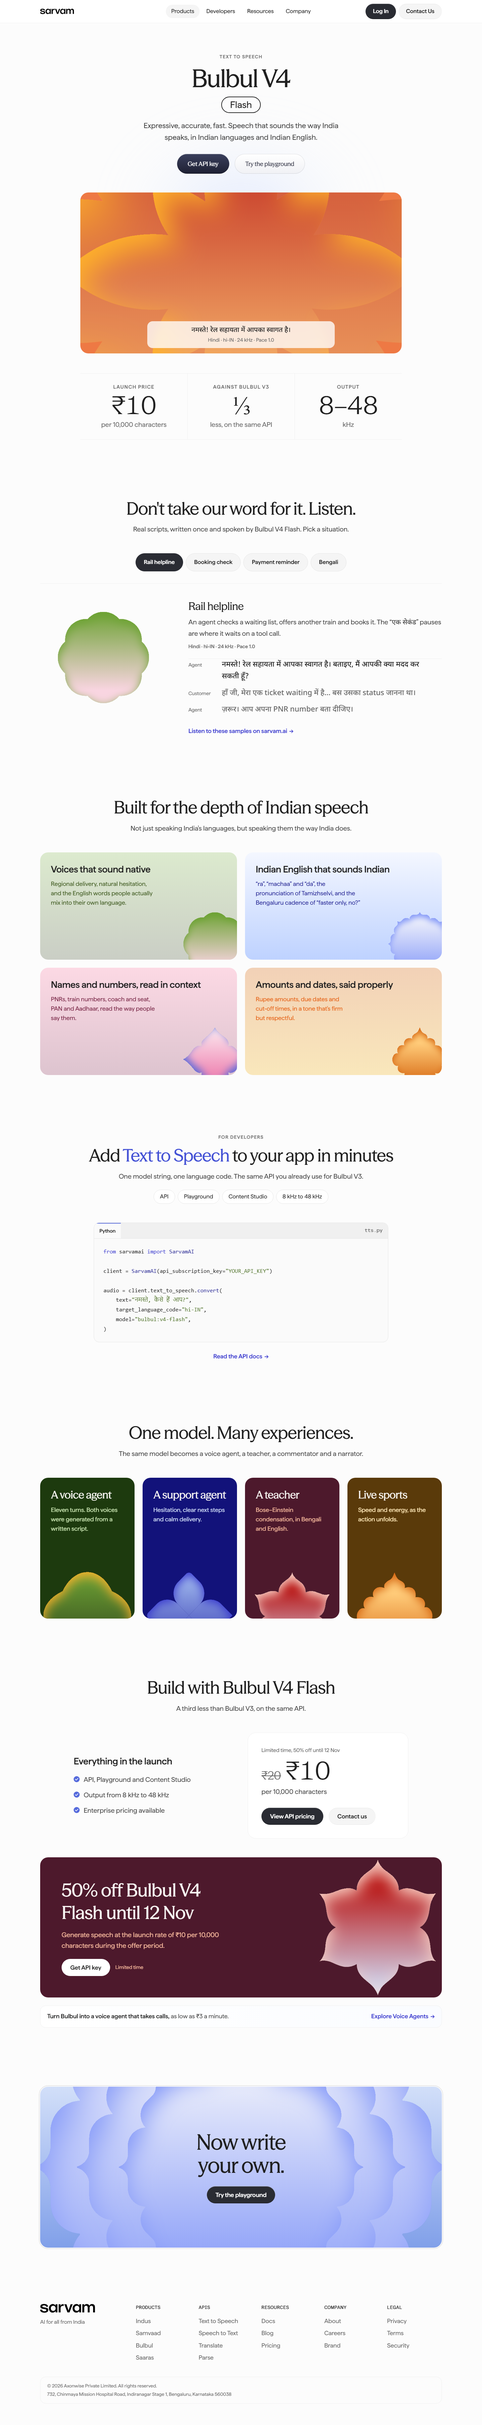
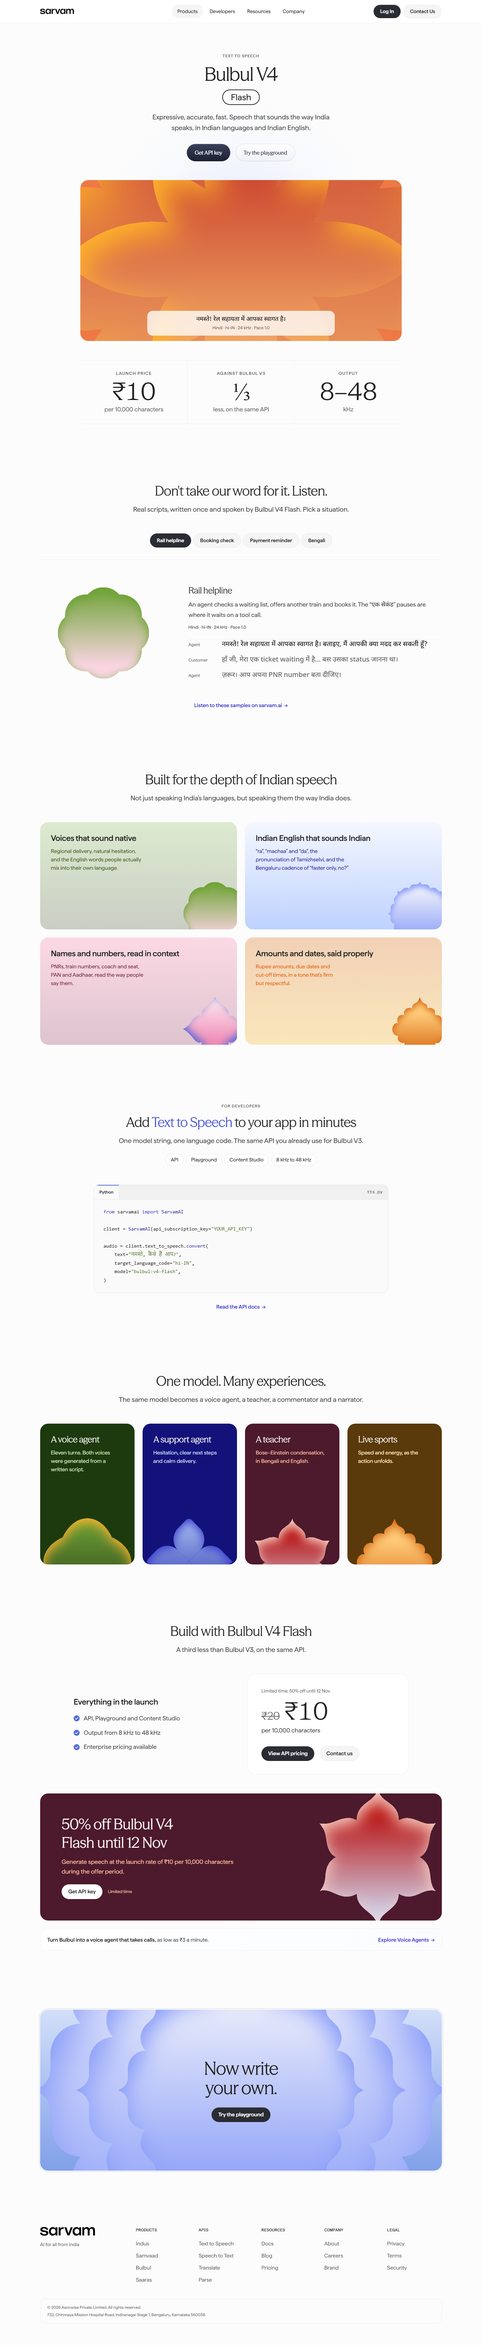
Restore Bulbul page type and button sizes to sarvam.ai's measured values
Season Mix headings back to regular weight and the measured heading sizes; the laptop +2px text step removed; button, tab and chip padding back to the measured sizes. Docs and screenshots updated.

diff --git a/skills/landing-page/page-base.css b/skills/landing-page/page-base.css
@@ -64,13 +64,13 @@ ul[role="list"], ol[role="list"] { list-style: none; padding: 0; }
 /* ---------- Type ---------- */
 .h1, .h2, .display {
   font-family: var(--font-season-mix);
-  font-weight: var(--fw-medium);   /* headings are medium (525): approved; bold and semibold read too heavy */
+  font-weight: var(--fw-regular);  /* Season Mix headings are regular (425), as on sarvam.ai */
   text-wrap: balance;
 }
 .h1 { font-size: var(--text-h1); line-height: var(--lh-h1); letter-spacing: var(--ls-h1); }
 .h1.product { font-size: var(--text-h1-product); }
 .h2 { font-size: var(--text-h2); line-height: var(--lh-h2); letter-spacing: var(--ls-h2); }
-.h3 { font-family: var(--font-season-mix); font-weight: var(--fw-medium); font-size: var(--text-h3); line-height: 1.2; letter-spacing: -0.015em; }
+.h3 { font-family: var(--font-season-mix); font-weight: var(--fw-regular); font-size: var(--text-h3); line-height: 1.2; letter-spacing: -0.015em; }
 .subhead { font-size: var(--text-subhead); line-height: var(--lh-subhead); color: var(--color-tx-secondary); text-wrap: pretty; }
 /* Subtext colours follow sarvam.ai: prominent subtext (hero line, section intros, demo copy)
    is tx-secondary #3D3D3D; tx-tertiary #666 is only for card descriptions, captions and meta. */
@@ -136,9 +136,9 @@ ul[role="list"], ol[role="list"] { list-style: none; padding: 0; }
 .btn {
   position: relative; isolation: isolate; overflow: hidden;
   display: inline-flex; align-items: center; justify-content: center; gap: 8px;
-  /* Sizes (components.md): content 48px / 16px, hero 56px (.btn-lg),
-     header 44px / 15px (.site-header .btn). */
-  min-height: 48px; padding: 12px 26px; border-radius: var(--radius-full);
+  /* Sizes measured on sarvam.ai (components.md): content 44px / 16px, hero 52px (.btn-lg),
+     header 40px / 15px (.site-header .btn). */
+  min-height: 44px; padding: 10px 20px; border-radius: var(--radius-full);
   font-family: var(--font-matter); font-weight: var(--fw-medium); font-size: 16px; line-height: 1.5;
   white-space: nowrap; text-align: center;
   transition: transform var(--duration-fast) var(--ease-brand), box-shadow var(--duration-button) var(--ease-brand);
@@ -160,7 +160,7 @@ ul[role="list"], ol[role="list"] { list-style: none; padding: 0; }
 .btn-white:hover::after { opacity: .05; }
 
 .btn-lg {
-  min-height: 56px; padding: 16px 32px;
+  min-height: 52px; padding: 14px 24px;
   font-family: var(--font-season-mix); font-size: 16px;
 }
 .btn-lg.btn-primary   { background: var(--gradient-btn-primary); color: #fff; box-shadow: var(--shadow-button-dark); }
@@ -195,7 +195,7 @@ ul[role="list"], ol[role="list"] { list-style: none; padding: 0; }
 .site-header .brand img { height: 16px; width: auto; }
 .site-nav { display: none; }
 .site-header .actions { margin-left: auto; display: flex; align-items: center; gap: 8px; }
-.site-header .btn { min-height: 44px; padding: 10px 22px; font-size: 15px; }
+.site-header .btn { min-height: 40px; padding: 8px 20px; font-size: 15px; }
 .site-header .actions .btn-light { display: none; }
 .menu-toggle {
   display: grid; place-items: center; width: var(--touch-min); height: var(--touch-min);
@@ -329,7 +329,7 @@ body.menu-open .site-header .actions .btn-dark { background: var(--color-sf-seco
   min-height: 380px; display: flex; flex-direction: column; gap: 12px;
   background: var(--ground, var(--ground-indigo)); color: var(--color-tx-inverse);
 }
-.card-dark .title { font-family: var(--font-season-mix); font-weight: var(--fw-medium); font-size: var(--text-h3); line-height: 1.2; letter-spacing: -0.015em; }
+.card-dark .title { font-family: var(--font-season-mix); font-weight: var(--fw-regular); font-size: var(--text-h3); line-height: 1.2; letter-spacing: -0.015em; }
 .card-dark .body-sm { color: var(--accent, var(--on-indigo-accent)); }
 
 /* ---------- Motifs (imagery.md) ----------
@@ -356,7 +356,7 @@ body.menu-open .site-header .actions .btn-dark { background: var(--color-sf-seco
 
 /* ---------- Tags, chips, badges (components.md) ---------- */
 .tag {
-  display: inline-flex; align-items: center; gap: 6px; padding: 8px 14px; border-radius: var(--radius-xl);
+  display: inline-flex; align-items: center; gap: 6px; padding: 6px 12px; border-radius: var(--radius-xl);
   font-size: 14px; line-height: 1.4; font-weight: var(--fw-semibold);
   background: var(--sr-indigo-50); border: 1px solid var(--sr-indigo-200); color: var(--sr-indigo-600);
 }
@@ -364,16 +364,16 @@ body.menu-open .site-header .actions .btn-dark { background: var(--color-sf-seco
 .tag.orange { background: var(--sr-orange-50); border-color: var(--sr-orange-200); color: var(--sr-orange-600); }
 .tag.pink   { background: var(--sr-pink-50);   border-color: var(--sr-pink-200);   color: var(--sr-pink-600); }
 .chip {
-  display: inline-flex; align-items: center; padding: 8px 18px; border-radius: var(--radius-full);
+  display: inline-flex; align-items: center; padding: 6px 14px; border-radius: var(--radius-full);
   background: #fff; border: 1px solid var(--color-st); font-size: 15px; line-height: 1.4;
 }
 .chips { display: flex; flex-wrap: wrap; gap: 8px; }
 
 /* Pill tabs: scroll on mobile, wrap from md */
-.tabs { display: flex; gap: 8px; overflow-x: auto; scrollbar-width: none; padding: 4px; margin: -4px; }
+.tabs { display: flex; gap: 6px; overflow-x: auto; scrollbar-width: none; padding: 4px; margin: -4px; }
 .tabs::-webkit-scrollbar { display: none; }
 .tab {
-  flex: none; min-height: 48px; padding: 12px 24px; border-radius: var(--radius-full);
+  flex: none; min-height: 40px; padding: 8px 20px; border-radius: var(--radius-full);
   background: var(--color-sf-secondary); color: var(--color-tx); font-size: 15px; font-weight: var(--fw-medium);
   border: 1px solid var(--color-st);                 /* subtle grey outline */
   transition: background var(--duration-normal) var(--ease-brand), color var(--duration-normal), border-color var(--duration-normal);
@@ -491,18 +491,6 @@ body.menu-open .site-header .actions .btn-dark { background: var(--color-sf-seco
   .js .reveal.in { opacity: 1; translate: 0 0; }
 }
 
-/* ---------- Laptop and up: component text +2px (approved Nov 2026) ---------- */
-@media (min-width: 1024px) {
-  .btn, .btn-lg { font-size: 18px; }
-  .site-header .btn { font-size: 17px; }
-  .site-nav a { font-size: 17px; }
-  .tag { font-size: 16px; }
-  .chip, .tab { font-size: 17px; }
-  .site-footer h2 { font-size: 14px; line-height: 20px; }
-  .site-footer .legal { font-size: 14px; }
-  .version { font-size: 28px; }
-  .band .display { font-weight: var(--fw-medium); }
-}
 /* Small laptops (1024–1279): with laptop-size type the centred nav collides with the
    buttons, so the nav flows beside them instead. Centred again from 1280. */
 @media (min-width: 1024px) and (max-width: 1279.98px) {
@@ -580,7 +568,6 @@ body.menu-open .site-header .actions .btn-dark { background: var(--color-sf-seco
 .code pre { margin: 0; padding: 20px; overflow-x: auto; font: 400 14px / 1.7 var(--font-matter-mono), var(--font-indic); color: var(--code-fg); }
 .code .k { color: var(--code-keyword); } .code .f { color: var(--code-function); } .code .s { color: var(--code-string); }
 @media (min-width: 768px) { .code pre { font-size: 15px; padding: 24px 28px; } }
-@media (min-width: 1024px) { .code pre { font-size: 17px; } }
 
 /* Inline promo strip */
 .strip {
@@ -598,19 +585,17 @@ body.menu-open .site-header .actions .btn-dark { background: var(--color-sf-seco
 .cta .band-cta { min-height: 0; aspect-ratio: 16 / 10; padding: 20px; }
 .cta .motif-stack { --stack-w: 96%; --stack-step: 30%; }
 .cta-copy { position: relative; z-index: 1; display: grid; justify-items: center; gap: 14px; }
-.cta-copy .display { color: var(--cta-ink, var(--color-tx)); font-family: var(--font-season-mix); font-weight: var(--fw-medium); font-size: clamp(26px, 6vw + 4px, 34px); line-height: 1.08; letter-spacing: -0.025em; }
+.cta-copy .display { color: var(--cta-ink, var(--color-tx)); font-family: var(--font-season-mix); font-weight: var(--fw-regular); font-size: clamp(26px, 6vw + 4px, 34px); line-height: 1.08; letter-spacing: -0.025em; }
 .cta-copy .btn { min-height: 40px; padding: 8px 18px; font-size: 15px; }
 @media (min-width: 768px) {
   .cta .band-cta { aspect-ratio: auto; min-height: 440px; padding: var(--band-pad); }
   .cta-copy { gap: 28px; }
-  .cta-copy .display { font-size: clamp(42px, 2vw + 34.5px, 58px); }
-  .cta-copy .btn { min-height: 48px; padding: 12px 26px; font-size: 16px; }
+  .cta-copy .display { font-size: clamp(36px, 2vw + 28.5px, 54px); }
+  .cta-copy .btn { min-height: 44px; padding: 10px 20px; font-size: 16px; }
 }
 @media (min-width: 1024px) {
   .cta .band-cta { min-height: 480px; }
   .cta .motif-stack { --stack-w: 86%; --stack-step: 28%; }
-  .cta-copy .display { font-size: clamp(56px, 1.25vw + 46px, 64px); }
-  .cta-copy .btn { font-size: 18px; }
 }
 @media (min-width: 1280px) { .cta .motif-stack { --stack-w: 76%; --stack-step: 26%; } }
 

diff --git a/design-system/tokens.css b/design-system/tokens.css
@@ -70,12 +70,12 @@ html { font-variation-settings: "SERF" 50; }
 
   /* ---------- Font weights (variable axes; the site uses the +25 values) ---------- */
   --fw-light: 325;
-  --fw-regular: 425;    /* banner headlines, body, metrics */
+  --fw-regular: 425;    /* all Season Mix headings, body, metrics */
   /* Matter running text. The trial Matter file renders ~2% heavier than Sarvam's licensed
      file at the same value (measured by ink coverage, Nov 2026): 415 on the trial file matches
      425 on the licensed one. Set this back to 425 when the licensed files are installed. */
   --fw-text: 415;
-  --fw-medium: 525;     /* all page headings, labels, buttons */
+  --fw-medium: 525;     /* Matter labels, card titles, buttons */
   --fw-semibold: 625;   /* tags, blog-cover titles */
 
   /* ---------- Surfaces ---------- */
@@ -260,11 +260,11 @@ html { font-variation-settings: "SERF" 50; }
   /* Type (typography.md §3), measured on sarvam.ai at 375 and 1440px. Laptop scale approved in review. */
   --text-h1: clamp(44px, 2.21vw + 35.7px, 64px);
   --lh-h1: 1.05;  --ls-h1: -0.025em;
-  --text-h1-product: clamp(52px, 1.33vw + 47px, 64px);   /* approved on the Bulbul page: 52 → 64, 76 at lg */
-  --text-h2: clamp(34px, 1.33vw + 29px, 46px);      /* section headings: 34 → 46, 52 at lg (approved) */
+  --text-h1-product: clamp(44px, 1.33vw + 39px, 56px);   /* product page name: 44 → 56 (sarvam.ai) */
+  --text-h2: clamp(28px, 1.33vw + 23px, 40px);      /* section headings: 28 → 40 (sarvam.ai) */
   --lh-h2: 1.15;  --ls-h2: -0.02em;
-  --text-h3: 28px;                                   /* in-section titles, dark-card titles: 28, 32 at lg */
-  --text-band: clamp(36px, 1.33vw + 31px, 48px);
+  --text-h3: 26px;                                   /* in-section titles, dark-card titles (sarvam.ai: 26) */
+  --text-band: clamp(32px, 1.33vw + 27px, 44px);
   --text-metric: clamp(56px, 1.77vw + 49.4px, 72px);
   --text-subhead: 18px;  --lh-subhead: 1.6;
   --text-lead: 17px;     --lh-lead: 1.6;
@@ -272,7 +272,7 @@ html { font-variation-settings: "SERF" 50; }
   --text-body-sm: 15px;  --lh-body-sm: 1.55;
   --text-ui: 16px;                                   /* tabs, chips, list rows, footer links, text links */
   --text-eyebrow: 14px;
-  --text-card-title: 22px; --lh-card-title: 1.3; --ls-card-title: -0.015em;
+  --text-card-title: 20px; --lh-card-title: 1.3; --ls-card-title: -0.015em;
   --text-value: 20px;
   --text-quote: 20px;
   --text-overline: 12px; --ls-overline: 0.1em;
@@ -310,26 +310,12 @@ html { font-variation-settings: "SERF" 50; }
     --section-head-gap: 56px;
     --card-pad: 32px;
     --band-pad: 64px;
-    /* Laptop and up (approved Nov 2026): headings larger, all other text +2px over the
-       sarvam.ai-measured sizes. */
-    --text-h1: calc(clamp(44px, 2.21vw + 35.7px, 64px) + 2px);
-    --text-h1-product: clamp(68px, 1.17vw + 57px, 76px);
-    --text-h2: clamp(46px, .94vw + 38.5px, 52px);
-    --text-h3: 32px;
-    --text-band: clamp(48px, .94vw + 40.5px, 54px);
-    --text-metric: calc(clamp(56px, 1.77vw + 49.4px, 72px) + 2px);
-    --text-card-title: 28px;
-    --text-value: 24px;
-    --text-subhead: 22px;
+    /* Laptop (sarvam.ai): leads and body step up; headings keep growing via their clamps */
     --text-lead: 20px;
-    --text-body: 20px;
-    --text-body-sm: 18px;
-    --text-ui: 18px;
-    --text-eyebrow: 18px;
-    --text-quote: 26px;
-    --text-overline: 14px;
-    --text-meta: 16px;
-    --text-label: 15px;
+    --text-body: 18px;
+    --text-card-title: 24px;
+    --text-value: 22px;
+    --text-quote: 24px;
   }
 }
 

diff --git a/styles.css b/styles.css
@@ -180,17 +180,13 @@
 @media (min-width: 1024px) { .cta .motif-stack { --stack-w: 86%; --stack-step: 28%; } }   /* band ~1.8:1 */
 @media (min-width: 1280px) { .cta .motif-stack { --stack-w: 76%; --stack-step: 26%; } }   /* band 2.2:1 and wider */
 .cta-copy { position: relative; z-index: 1; display: grid; justify-items: center; gap: 28px; }
-/* Season Mix, large (by request). Dark text: model-02 is a light motif (white to periwinkle) */
-.cta-copy .display { color: var(--color-tx); font-family: var(--font-season-mix); font-weight: var(--fw-semibold); font-size: clamp(42px, 2vw + 34.5px, 58px); line-height: 1.08; letter-spacing: -0.025em; }
+/* Season Mix. Dark text: model-02 is a light motif (white to periwinkle) */
+.cta-copy .display { color: var(--color-tx); font-family: var(--font-season-mix); font-weight: var(--fw-regular); font-size: clamp(36px, 2vw + 28.5px, 54px); line-height: 1.08; letter-spacing: -0.025em; }
 @media (min-width: 1024px) { .cta .band-cta { min-height: 480px; } }
 
 /* Laptop and up: page-specific sizes (the system tokens carry the approved type scale) */
 @media (min-width: 1024px) {
   /* hard-coded sizes on this page */
-  .transcript li { font-size: 22px; }
-  .code pre { font-size: 17px; }
-  .price .was { font-size: 34px; }                    /* number: +2 */
-  .cta-copy .display { font-size: clamp(56px, 1.25vw + 46px, 64px); }
   /* give the larger text room */
   .hero-copy .subhead { max-width: 46ch; }
   .cap-grid .card-pastel > :not(img) { max-width: 28ch; }
@@ -211,8 +207,8 @@
   .hero-art-caption { left: 50%; right: auto; translate: -50% 0; width: min(560px, calc(100% - 32px)); text-align: center; }
 }
 
-/* Page-specific headings use the system heading weight (medium) */
-.demo-title, .cta-copy .display { font-weight: var(--fw-medium); }
+/* Page-specific headings use the system heading weight (regular) */
+.demo-title, .cta-copy .display { font-weight: var(--fw-regular); }
 
 /* Closing band on phones: keep the desktop's wide layered composition, scaled down
    (reference: sarvam.ai brand page on mobile). Landscape 16:10, width-based layering. */

diff --git a/design-system/components.md b/design-system/components.md
@@ -7,16 +7,16 @@ Always pills (`--radius-full`). Labels are short verbs in sentence case: *Sign u
 
 | Variant | Spec | Use |
 |---|---|---|
-| Primary, large | Season Mix 525 16px · 56px tall · padding 16px 32px · `--gradient-btn-primary` · white | Hero and section CTAs |
+| Primary, large | Season Mix 525 16px · 52px tall · padding 14px 24px · `--gradient-btn-primary` · white | Hero and section CTAs |
 | Secondary, large | Same size · `--gradient-btn-secondary` · text `#1E2033` · inset 1px ring at 14% | Hero pair |
-| Primary, content | Matter 525 16px · 48px · padding 12px 26px · `--color-sr-slate` · white · `--shadow-button-dark` | Inline CTAs, "Get API key" |
+| Primary, content | Matter 525 16px · 44px · padding 10px 20px · `--color-sr-slate` · white · `--shadow-button-dark` | Inline CTAs, "Get API key" |
 | Secondary, content | Same size · `--color-sf-secondary` · `--color-tx` · `--shadow-button-light` | "View All Updates" |
-| Header | 44px, 15px, padding 10px 22px | *Log In* (dark), *Contact Us* (light) |
+| Header | 40px, 15px, padding 8px 20px | *Log In* (dark), *Contact Us* (light) |
 | On dark ground | Secondary, white background | Promo and CTA bands |
 | Text link | Matter 425, `--sr-indigo-800`, "→" | "Explore Voice Agents →" |
 | Play | 56–92px white circle, slate triangle, `--shadow-elevation-md` | On orbs and video |
 
-Padding is enlarged from sarvam.ai (system). States: hover a white 8% overlay over 200ms; press `scale(.97)`; focus 2px `--sr-indigo-600` outline, offset 2px; disabled opacity .4. Below 1024px, card button pairs stack full width.
+Sizes measured on sarvam.ai. States: hover a white 8% overlay over 200ms; press `scale(.97)`; focus 2px `--sr-indigo-600` outline, offset 2px; disabled opacity .4. Below 1024px, card button pairs stack full width.
 
 ## 2. Header
 Fixed, white, 1px `--color-st-secondary` hairline, ≈68px tall, container 10/12 (88% mobile), max 1400px. Wordmark 16px tall left (a white version crossfades in over dark sections, 300ms); nav centre (Products · Developers · Resources · Company; Matter 425 15px, pill hit areas 40px, chevrons); *Log In* then *Contact Us* right.
@@ -31,9 +31,9 @@ Centred, top to bottom: ornament (24 → 32px) · eyebrow between 1px `--gradien
 - **Composer:** outer panel (`--radius-3xl`, 1px `--color-st`, padding 12 → 16px) around an inner field (`--radius-2xl`, 16 → 18px); context chips (`--color-sf`, `--radius-lg`, 12px).
 
 ## 5. Tabs, tags, chips
-- **Tab chips:** 48px, padding 12px 24px, Matter 525 15px, 1px `--color-st` border (dark when selected). Dark-active variant: inactive `--color-sf-secondary`, active `--color-sr-slate` + white. Segmented: pills in a bordered track. Product tab rail: active white with `--sr-indigo-800` text. Code tabs: 12px 525, active with a 2px `--sr-indigo-600` top border. Tab rows scroll sideways on mobile.
-- **Tags:** Matter 625 14px, padding 8px 14px, `--radius-xl`, background `*-50`, border `*-200`, text `*-600` ("SOC 2 Type I", "DPDP compliant").
-- **Spec chips:** white, 1px `--color-st`, pill, Matter 425 13–14px ("WAV", "Python SDK").
+- **Tab chips:** 40px, padding 8px 20px, Matter 525 15px, 1px `--color-st` border (dark when selected). Dark-active variant: inactive `--color-sf-secondary`, active `--color-sr-slate` + white. Segmented: pills in a bordered track. Product tab rail: active white with `--sr-indigo-800` text. Code tabs: 12px 525, active with a 2px `--sr-indigo-600` top border. Tab rows scroll sideways on mobile.
+- **Tags:** Matter 625 14px, padding 6px 12px, `--radius-xl`, background `*-50`, border `*-200`, text `*-600` ("SOC 2 Type I", "DPDP compliant").
+- **Spec chips:** white, 1px `--color-st`, pill, padding 6px 14px, Matter 425 13–14px ("WAV", "Python SDK").
 
 ## 6. Cards
 | Type | Spec |
@@ -63,7 +63,7 @@ Centred, top to bottom: ornament (24 → 32px) · eyebrow between 1px `--gradien
 |---|---|
 | Promo | Deep ground of the colour world, `--radius-3xl`, padding 40px, min-height 256px; Season Mix 32 → 36px white headline, accent line, white pill + 12px meta; a motif bleeding off the right (rising from the bottom on mobile) |
 | Use-case | Deep ground, H2 white + accent lead, hairline, two columns of title, accent line and 4 items; a motif cropped top-right |
-| **CTA** | A layered motif (`.cta .band-cta` + `.motif-stack`, `campaign.md` §5) on a canvas between the motif's own colours (`--band-bg`); `--radius-2xl → 3xl` with a 2px `--color-st` outline at 2px offset; **Season Mix 525**, two lines, colour following the motif (`--cta-ink`); one pill button; 16:10 on phones |
+| **CTA** | A layered motif (`.cta .band-cta` + `.motif-stack`, `campaign.md` §5) on a canvas between the motif's own colours (`--band-bg`); `--radius-2xl → 3xl` with a 2px `--color-st` outline at 2px offset; **Season Mix 425**, two lines, colour following the motif (`--cta-ink`); one pill button; 16:10 on phones |
 | Inline promo strip | White → `--sr-indigo-50` wash, 1px border, `--radius-2xl`, one sentence left, text link right |
 
 ## 9. Footer

diff --git a/design-system/typography.md b/design-system/typography.md
@@ -16,33 +16,33 @@ Tokens: `--font-season-mix`, `--font-matter`, `--font-matter-mono`, `--font-matt
 | Token | Value | Use |
 |---|---|---|
 | `--fw-light` | 325 | Rare, very large display only |
-| `--fw-regular` | 425 | Banner headlines, body, metrics |
+| `--fw-regular` | 425 | **All Season Mix headings** (H1, H2, band and in-section titles, banner headlines), body, metrics, as on sarvam.ai |
 | `--fw-text` | 415 | Matter running text on pages. The trial Matter renders ~2% heavier than the licensed file; set back to 425 with licensed fonts |
-| `--fw-medium` | 525 | **All page headings** (H1, H2, card and band titles), labels, buttons, stats. Bold and semibold read too heavy |
+| `--fw-medium` | 525 | Matter card titles, labels, buttons, stats. Never on Season Mix headings |
 | `--fw-semibold` | 625 | Tags; blog-cover titles (§4) |
 
 Never 700+. Hierarchy comes from size and the Season Mix / Matter contrast.
 
 ## 3. Web type scale
-Sizes are responsive tokens in `tokens.css` (mobile → tablet at 768 → laptop at 1024); use the token, never the number. Secondary text on Sarvam is 16–18px: never set paragraphs, tabs, chips or links at 13–14px.
+Sizes are responsive tokens in `tokens.css`, measured on sarvam.ai (mobile → tablet at 768 → laptop at 1024; "fluid" sizes grow smoothly from 375 to 1280px); use the token, never the number. Secondary text on Sarvam is 16–18px: never set paragraphs, tabs, chips or links at 13–14px.
 
 | Style | Font / weight | Token | Size (mobile → tablet, laptop) | LH | Tracking | Colour |
 |---|---|---|---|---|---|---|
-| Hero H1 | Season Mix 525 | `--text-h1` | 44 → 64, 66 | 1.05 | -0.025em | `tx` |
-| Product H1 | Season Mix 525 | `--text-h1-product` | 52 → 64, 76 | 1.05 | -0.025em | `tx` |
-| Section H2 | Season Mix 525 | `--text-h2` | 34 → 46, 52 | 1.15 | -0.02em | `tx` |
-| Band headline | Season Mix 525 | `--text-band` | 36 → 48, 54 | 1.1 | -0.02em | follows the motif |
-| In-section title | Season Mix 525 | `--text-h3` | 28, 32 | 1.2 | -0.015em | `tx` / white |
-| Metric (price, big number) | Season Mix 425 | `--text-metric` | 56 → 72, 74 | 1 | -0.02em | `tx` |
-| Hero subhead | Matter 425 | `--text-subhead` | 18 → 20, 22 | 1.6 | 0 | `tx-secondary` |
-| Section lead / body | Matter 425 | `--text-lead` / `--text-body` | 17 → 18, 20 / 16 → 17, 20 | 1.6 | 0 | `tx-secondary`, max 60ch |
-| Body small | Matter 425 | `--text-body-sm` | 15 → 16, 18 | 1.55 | 0 | `tx-tertiary` |
-| UI text (tabs, chips, rows, links) | Matter 425 | `--text-ui` | 16, 18 | 1.5 | 0 | |
-| Card title | Matter 525 | `--text-card-title` | 22, 28 | 1.3 | -0.015em | `tx` |
-| Value statement / quote | Matter 525 / 425 | `--text-value` / `--text-quote` | 20 → 21, 24 / 20 → 22, 26 | 1.4 / 1.6 | 0 | `tx` |
-| Eyebrow | Matter 425 | `--text-eyebrow` | 14 → 16, 18 | 1.5 | 0.025em | `sr-indigo-900` |
-| Overline | Matter 525 caps | `--text-overline` | 12, 14 | 1.33 | 0.1em | `tx-tertiary` |
-| Meta / label | Matter 425 / 525 | `--text-meta` / `--text-label` | 14, 16 / 13, 15 | 1.55 | 0 | `tx-tertiary` |
+| Hero H1 | Season Mix 425 | `--text-h1` | 44 → 64, fluid | 1.05 | -0.025em | `tx` |
+| Product H1 | Season Mix 425 | `--text-h1-product` | 44 → 56, fluid | 1.05 | -0.025em | `tx` |
+| Section H2 | Season Mix 425 | `--text-h2` | 28 → 40, fluid | 1.15 | -0.02em | `tx` |
+| Band headline | Season Mix 425 | `--text-band` | 32 → 44, fluid | 1.1 | -0.02em | follows the motif |
+| In-section title | Season Mix 425 | `--text-h3` | 26 | 1.2 | -0.015em | `tx` / white |
+| Metric (price, big number) | Season Mix 425 | `--text-metric` | 56 → 72, fluid | 1 | -0.02em | `tx` |
+| Hero subhead | Matter 425 | `--text-subhead` | 18 → 20 | 1.6 | 0 | `tx-secondary` |
+| Section lead / body | Matter 425 | `--text-lead` / `--text-body` | 17 → 18, 20 / 16 → 17, 18 | 1.6 | 0 | `tx-secondary`, max 60ch |
+| Body small | Matter 425 | `--text-body-sm` | 15 → 16 | 1.55 | 0 | `tx-tertiary` |
+| UI text (tabs, chips, rows, links) | Matter 425 | `--text-ui` | 16 | 1.5 | 0 | |
+| Card title | Matter 525 | `--text-card-title` | 20 → 22, 24 | 1.3 | -0.015em | `tx` |
+| Value statement / quote | Matter 525 / 425 | `--text-value` / `--text-quote` | 20 → 21, 22 / 20 → 22, 24 | 1.4 / 1.6 | 0 | `tx` |
+| Eyebrow | Matter 425 | `--text-eyebrow` | 14 → 16 | 1.5 | 0.025em | `sr-indigo-900` |
+| Overline | Matter 525 caps | `--text-overline` | 12 | 1.33 | 0.1em | `tx-tertiary` |
+| Meta / label | Matter 425 / 525 | `--text-meta` / `--text-label` | 14 / 13 | 1.55 | 0 | `tx-tertiary` |
 | Nav item | Matter 425 | | 15 | normal | 0 | `tx` |
 | Button large / small | Season Mix 525 / Matter 525 | | 16 / 15–16 | 1.5 | 0 | |
 | Stat value | Matter 525 tabular | | 20 | 1.3 | -0.5px | `tx` |

diff --git a/skills/landing-page/SKILL.md b/skills/landing-page/SKILL.md
@@ -61,7 +61,7 @@ node skills/landing-page/screenshot.js website/<slug>/index.html   # --all to sa
 Writes `mobile-375.png`, `tablet-768.png`, `desktop-1440.png` to `website/<slug>/screenshots/` and checks 320, 1024, 1280 and 1600. Fails on horizontal overflow, missing fonts, broken images, console errors or more than one h1. Then open every screenshot:
 - [ ] Each section follows its `layout.md` §5 row at each width; tablet is its own composition.
 - [ ] Hero and every section heading centred; full section gap everywhere; stacked blocks share edges.
-- [ ] Headings Season Mix 525 at token sizes; paragraphs `#3D3D3D`; no 13–14px secondary text.
+- [ ] Headings Season Mix 425 at token sizes; paragraphs `#3D3D3D`; no 13–14px secondary text.
 - [ ] Layered art and bands landscape on phones; motif layering checks in `campaign.md` §5 pass.
 - [ ] Saturated colour ≤ ~10% outside the campaign moments; banners for the product would sit beside it as one family.
 - [ ] Keyboard pass through header, tabs, accordion, carousel and CTA. No orphaned words in headlines.

diff --git a/design-system/design.md b/design-system/design.md
@@ -57,7 +57,7 @@ A landing page uses both: product register for the body, campaign register for t
 1. Imports `tokens.css`; no invented values.
 2. **Product register:** canvas `#FCFCFC`/white, headings `#1F1F1F`, paragraphs `#3D3D3D` (#666 only for card text and meta), saturated colour ≤ ~10%.
 3. **Campaign register:** one continuous ground (never a single flat colour, except a photo window or a night poster), one official motif as-is, grain on gradients. Checks in `campaign.md` §2.
-4. Headlines are Season Mix with negative tracking; everything else Matter. Pages: headings medium (525).
+4. Headlines are Season Mix with negative tracking; everything else Matter. Pages: headings regular (425), as on sarvam.ai.
 5. Pills for buttons, 16–32px card radii, barely visible shadows.
 6. Whitespace dominates; one message per banner or section.
 7. Wordmark official, black or white, with clear space, never beside the monogram.
